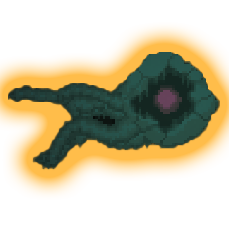
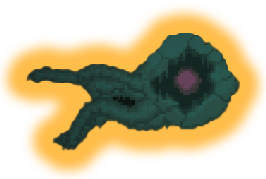
High res items iconsA

diff --git a/app.js b/app.js
@@ -173,8 +173,8 @@ function createLayerButtons()
     [
         { id: "vanilla_bosses", label: "Bosses" , icon:"icons/boss.webp", defaultOn: true},
         { id: "vanilla_structures", label: "Structures" , icon:"icons/Star.png", defaultOn: false},
-        { id: "vanilla_items", label: "Items", icon:"icons/Vanilla/Items/evil_eye.png" , defaultOn: false},
-        { id: "vanilla_orbs", label: "Orbs", icon:"icons/Vanilla/Items/icon-orbs.webp" , defaultOn: true}
+        { id: "vanilla_items", label: "Items", icon:"icons/Vanilla/Items/Item_evil_eye.webp" , defaultOn: false},
+        { id: "vanilla_orbs", label: "Orbs", icon:"icons/Vanilla/Orbs/orb_empty.gif" , defaultOn: true}
     ],
 
     defaultOn: false
@@ -188,7 +188,7 @@ function createLayerButtons()
     sublayers:
     [
          { id: "apotheosis_bosses", label: "Bosses" , icon:"icons/boss.webp", defaultOn: true},
-         { id: "apotheosis_orbs", label: "Orbs", icon:"icons/Vanilla/Items/icon-orbs.webp" , defaultOn: true}
+         { id: "apotheosis_orbs", label: "Orbs", icon:"icons/Vanilla/Orbs/orb_empty.gif" , defaultOn: true}
     ],
 
     defaultOn: false